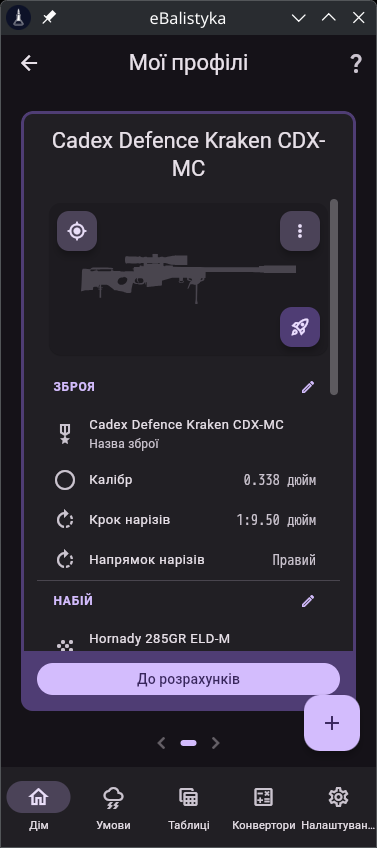
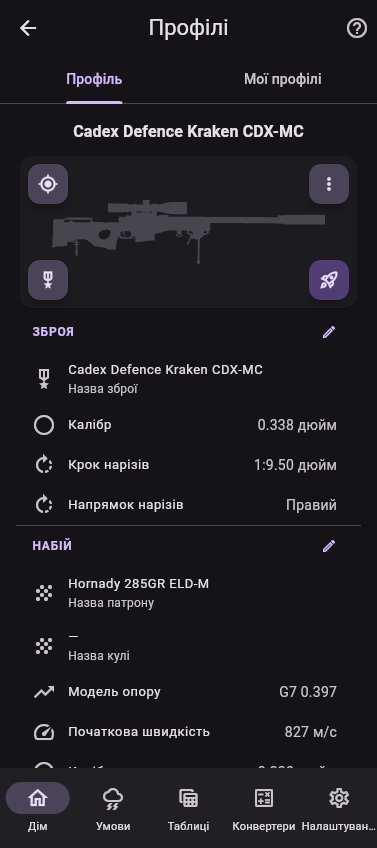
docs(help): rewrite the Profiles topic for the tabbed screen, with fresh screenshots (0012)

diff --git a/assets/markdown/uk/profilesScreen.md b/assets/markdown/uk/profilesScreen.md
@@ -4,51 +4,78 @@
 
 Профіль об'єднує **зброю**, **набій** та **приціл** в один пресет. Перемикайте профілі, щоб миттєво переходити між різними налаштуваннями.
 
+Екран має дві вкладки — перемикайте їх свайпом або натисканням:
+
+- **Профіль** — активний профіль (той, що використовується на головному екрані): його картка та дані зброї, набою й прицілу
+- **Мої профілі** — список усіх ваших профілів
+
 ---
 
-### Картка профілю
+### Вкладка «Профіль»
 
 ![Картка профілю](resource:assets/markdown/uk/profilesScreen_card.png)
 
-Кожна картка показує зброю, набій та приціл, призначені цьому профілю. Активний профіль (що використовується на головному екрані) виділено.
-
-- **Свайп ліворуч / праворуч** — перегляд профілів
-- **Індикатор крапок** — показує поточну позицію; натисніть крапку, щоб перейти до профілю
-
-На картці розташовані три кнопки швидкого доступу:
+Назва профілю показана над карткою. На картці чотири кнопки:
 
 | Кнопка | Розташування | Дія |
 |---|---|---|
-| **…** (більше) | Вгорі праворуч | Відкриває меню редагування (перейменувати, дублювати, експорт, видалити) |
-| **Іконка прицілу** | Вгорі ліворуч | Призначити або змінити приціл профілю |
-| **Іконка набою** | Внизу праворуч | Призначити або змінити набій профілю |
+| **⋮** (більше) | Вгорі праворуч | Відкриває меню профілю |
+| **Іконка прицілу** | Вгорі ліворуч | Замінити приціл |
+| **Іконка зброї** | Внизу ліворуч | Замінити зброю |
+| **Іконка набою** | Внизу праворуч | Замінити набій |
 
-Внизу картки:
-- **Вибрати** — зробити цей профіль активним і повернутись на головний екран
-- **До розрахунків** — відображається коли профіль вже активний; повертає на головний екран
+Якщо у профілі ще немає зброї, набою чи прицілу, замість іконки кнопка показує підказку («Оберіть зброю», «Оберіть набій», «Оберіть приціл»).
 
-Якщо у профілі не призначено набій або приціл — замість кнопки вибору відображається попередження.
+Під карткою розташовані розділи **Зброя**, **Набій** та **Приціл** з поточними значеннями. Натисніть олівець розділу, щоб його редагувати. Калібр спільний для зброї та набою: зміна в одному місці змінює й інше.
+
+#### Заміна зброї, набою чи прицілу
+
+Якщо в профілі цей елемент уже є, спершу з'явиться попередження:
+
+- **Створити копію** — копіює весь профіль (з назвою `[COPY] …`), робить копію активною і застосовує зміну до неї, тож оригінал лишається незайманим
+- **Замінити** — видаляє дані поточного елемента і замінює його
+
+Потім оберіть, звідки взяти новий елемент:
+
+- **Створити новий** — заповнити з нуля
+- **З колекції** — вибрати пресет (для набою: патрон цілком або лише кулю)
+- **Імпортувати з файлу** — взяти з файлу `.a7p`
+
+Якщо калібр нової зброї відрізняється від калібру набою, застосунок запропонує оновити калібр набою.
 
 ---
 
-### Меню профілю (…)
+### Меню профілю (⋮)
 
 | Дія | Опис |
 |---|---|
-| **Перейменувати** | Змінити назву профілю |
-| **Дублювати** | Створити копію з новою назвою |
-| **Експортувати** | Зберегти або поділитись профілем як файлом |
+| **Створити копію** | Створити копію з назвою на ваш вибір (за замовчуванням: `[COPY] …`) |
+| **Експортувати** | Зберегти профіль як файл |
+| **Редагувати назву профілю** | Перейменувати профіль |
+| **Вилучити набій** | Відокремити набій від профілю, не видаляючи його — зручно, щоб вільно змінити калібр зброї |
 | **Видалити** | Безповоротно видалити профіль |
+
+---
+
+### Вкладка «Мої профілі»
+
+![Мої профілі](resource:assets/markdown/uk/profilesScreen_list.png)
+
+Кожен профіль — це картка зі зброєю, калібром, набоєм і прицілом. Активний профіль виділено.
+
+- **Натисніть картку** — зробити профіль активним і повернутись на вкладку «Профіль»
+- Поле **пошуку** — фільтрує список за назвою профілю або зброї
+- **⋮** на картці — **Редагувати назву профілю**, **Створити копію**, **Експортувати**, **Видалити**
 
 ---
 
 ### Додавання профілю
 
-Натисніть **+**, щоб відкрити меню додавання:
+Натисніть **+** (на вкладці «Мої профілі»), щоб відкрити меню додавання:
 
 - **Створити новий** — введіть назву, потім налаштуйте нову зброю з нуля
-- **З колекції** — введіть назву, потім оберіть зброю зі збереженої колекції
-- **Імпортувати з файлу** — завантажте файл `.ebcp` або `.a7p` з пристрою
+- **З колекції** — введіть назву, потім оберіть зброю з вбудованої колекції
+- **Імпортувати з файлу** — завантажте файл `.ebcp` або `.a7p`
 
 ---
 
@@ -56,13 +83,15 @@
 
 Оберіть формат у меню експорту:
 
-- **.ebcp** — рідний формат eBalistyka; зберігає всі дані, включно з прицілом і налаштуваннями
-- **.a7p** — Archer Ballistic Profile; потребує набою та прицілу. Оберіть діапазон дистанцій для вбудованої таблиці траєкторії:
+- **.ebcp (eBalistyka)** — рідний формат; зберігає всі дані, включно з прицілом
+- **.a7p (Archer Ballistic Profile)** — потребує набою та прицілу. Оберіть діапазон дистанцій для вбудованої таблиці траєкторії:
 
 | Діапазон | Дистанції |
 |---|---|
-| Дозвуковий | 25–400 м |
-| Малий | 100–700 м |
-| Середній | 100–1000 м |
-| Далекий | 100–1700 м |
-| Ультрадалекий | 100–2000 м |
+| Дозвукова | 25–400 м |
+| Ближня | 100–700 м |
+| Середня | 100–1000 м |
+| Дальня | 100–1700 м |
+| Надальня | 100–2185 м |
+
+У веб-версії експорт завантажує файл через браузер.

diff --git a/assets/markdown/en/profilesScreen.md b/assets/markdown/en/profilesScreen.md
@@ -2,53 +2,80 @@
 
 ![Profiles screen](resource:assets/markdown/en/profilesScreen_overview.png)
 
-A profile combines a **weapon**, **cartridge**, and **scope** into one preset. Switch between profiles to instantly switch between different rifle setups.
+A profile combines a **weapon**, **cartridge** and **scope** into one preset. Switch between profiles to instantly switch between different rifle setups.
+
+The screen has two tabs — swipe or tap to switch:
+
+- **Profile** — the active profile (the one used on the Home screen): its card and the details of its weapon, cartridge and scope
+- **My Profiles** — the list of all your profiles
 
 ---
 
-### Profile card
+### Profile tab
 
 ![Profile card](resource:assets/markdown/en/profilesScreen_card.png)
 
-Each card shows the weapon, cartridge, and scope assigned to that profile. The active profile (used on the Home screen) is highlighted.
-
-- **Swipe left / right** — browse profiles
-- **Dots indicator** — shows the current position; tap a dot to jump to that profile
-
-The card contains three quick-action buttons:
+The profile name is shown above the card. The card has four buttons:
 
 | Button | Location | Action |
 |---|---|---|
-| **…** (more) | Top-right | Opens the edit menu (rename, duplicate, export, delete) |
-| **Scope icon** | Top-left | Assign or change the scope for this profile |
-| **Cartridge icon** | Bottom-right | Assign or change the cartridge for this profile |
+| **⋮** (more) | Top-right | Opens the profile menu |
+| **Scope icon** | Top-left | Replace the scope |
+| **Weapon icon** | Bottom-left | Replace the weapon |
+| **Cartridge icon** | Bottom-right | Replace the cartridge |
 
-At the bottom of the card:
-- **Select** — set this profile as active and return to the Home screen
-- **Go to calculations** — shown when the profile is already active; returns to Home
+If the profile has no weapon, cartridge or scope yet, its button shows a hint ("Select weapon", "Select ammo", "Select sight") instead.
 
-If the profile has no cartridge or scope assigned, the bottom bar shows a warning instead of the Select button.
+Below the card are the **Weapon**, **Ammo** and **Sight** sections with their current values. Tap the pencil icon of a section to edit it. The caliber is shared between the weapon and the cartridge — changing it in one changes it in the other.
+
+#### Replacing a weapon, cartridge or scope
+
+If the profile already has the item, a warning appears first:
+
+- **Duplicate** — copies the whole profile (named `[COPY] …`), makes the copy active and applies the change to the copy, so the original stays untouched
+- **Replace** — discards the current item's data and replaces it
+
+Then choose where the new item comes from:
+
+- **Create new** — fill in a new one from scratch
+- **From collection** — pick a preset (for a cartridge: a whole cartridge, or just a bullet)
+- **Import from file** — take it from an `.a7p` file
+
+If the new weapon's caliber differs from the cartridge's, the app offers to update the cartridge's caliber to match.
 
 ---
 
-### Profile menu (…)
+### Profile menu (⋮)
 
 | Action | Description |
 |---|---|
-| **Rename** | Change the profile name |
-| **Duplicate** | Create a copy with a new name |
-| **Export** | Save or share the profile as a file |
-| **Delete** | Permanently remove the profile |
+| **Duplicate** | Create a copy with a name you choose (suggested: `[COPY] …`) |
+| **Export** | Save the profile as a file |
+| **Edit Profile Name** | Rename the profile |
+| **Eject Ammo** | Detach the cartridge from the profile without deleting it — useful to edit the weapon's caliber freely |
+| **Remove** | Permanently delete the profile |
+
+---
+
+### My Profiles tab
+
+![My Profiles](resource:assets/markdown/en/profilesScreen_list.png)
+
+Every profile is a card showing its weapon, caliber, cartridge and scope. The active profile is highlighted.
+
+- **Tap a card** — make that profile active and go back to the Profile tab
+- **Search** field — filters the list by profile or weapon name
+- **⋮** on a card — **Edit Profile Name**, **Duplicate**, **Export**, **Remove**
 
 ---
 
 ### Adding a profile
 
-Tap **+** to open the add sheet:
+Tap **+** (on the My Profiles tab) to open the add sheet:
 
 - **Create new** — enter a name, then set up a new weapon from scratch
-- **From collection** — enter a name, then pick a weapon from the saved collection
-- **Import from file** — load a `.ebcp` or `.a7p` file from your device
+- **From collection** — enter a name, then pick a weapon from the built-in collection
+- **Import from file** — load a `.ebcp` or `.a7p` file
 
 ---
 
@@ -56,8 +83,8 @@ Tap **+** to open the add sheet:
 
 Choose a format in the export sheet:
 
-- **.ebcp** — eBalistyka native format; preserves all data including scope and settings
-- **.a7p** — Archer Ballistic Profile; requires a cartridge and scope to be set. Choose a distance range for the embedded trajectory table:
+- **.ebcp (eBalistyka)** — native format; keeps all data including the scope
+- **.a7p (Archer Ballistic Profile)** — requires a cartridge and scope to be set. Choose a distance range for the embedded trajectory table:
 
 | Range | Distances |
 |---|---|
@@ -65,4 +92,6 @@ Choose a format in the export sheet:
 | Low | 100–700 m |
 | Middle | 100–1000 m |
 | Long | 100–1700 m |
-| Ultra long | 100–2000 m |
+| Ultra long | 100–2185 m |
+
+On the web version exporting downloads the file through your browser.

diff --git a/docs/records/0003-objectbox-protobuf-cutover.md b/docs/records/0003-objectbox-protobuf-cutover.md
@@ -47,3 +47,7 @@ and every column flag off, i.e. an empty Tables screen. Missing
 back to `seedSettings()` (what a fresh install gets), like `ConvertorsState`
 does via `defaultConvertorsState()`. The new tests fail on the old code
 (`distanceEndMeter` 0.0 instead of 1000.0).
+
+**Update (2026-10-23):** per the owner, the migration was already checked on
+Windows with real data and the multi-profile / orphaned-items cases were
+already covered — the gaps listed for them in the pre-1.0 review don't apply.
